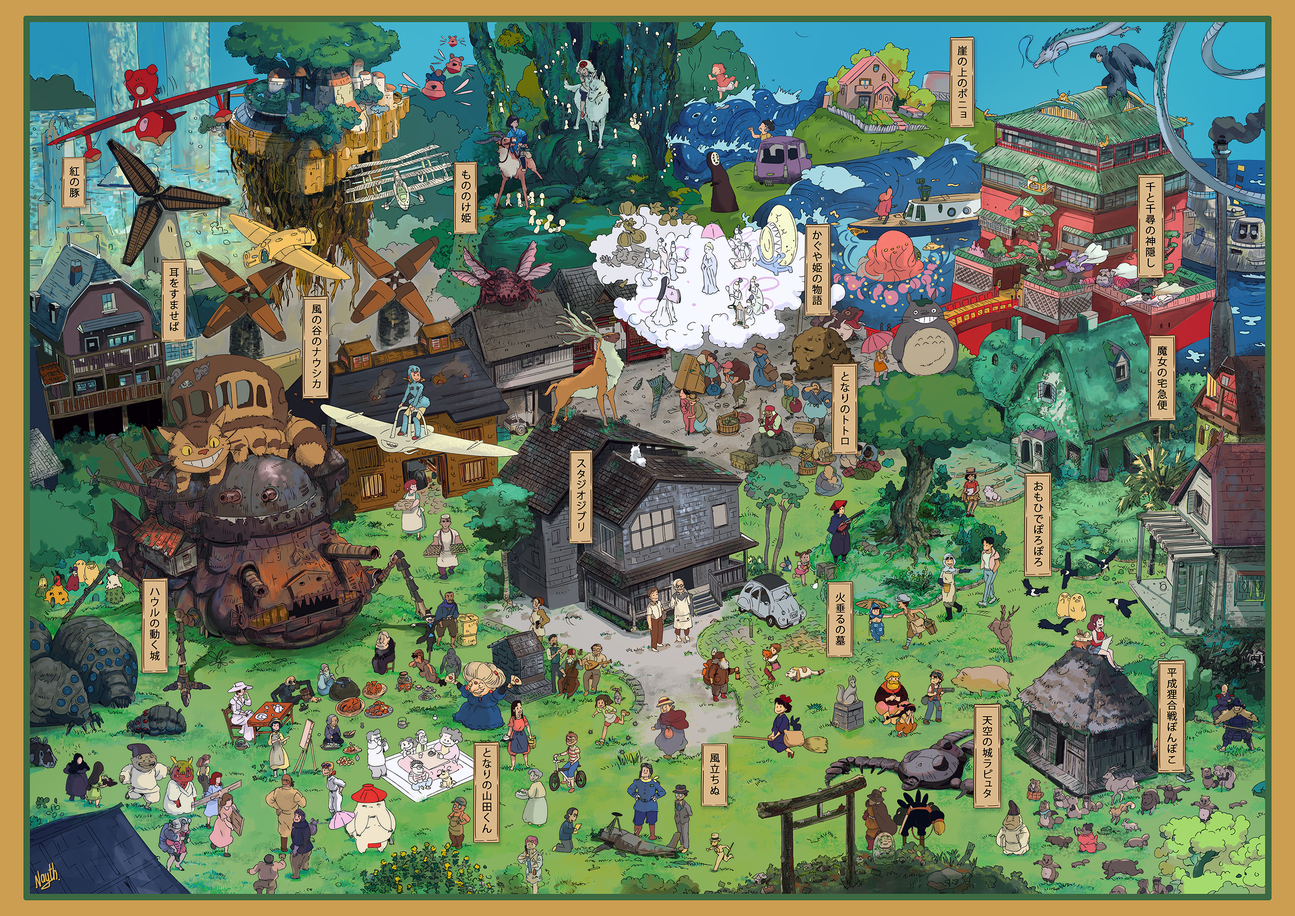
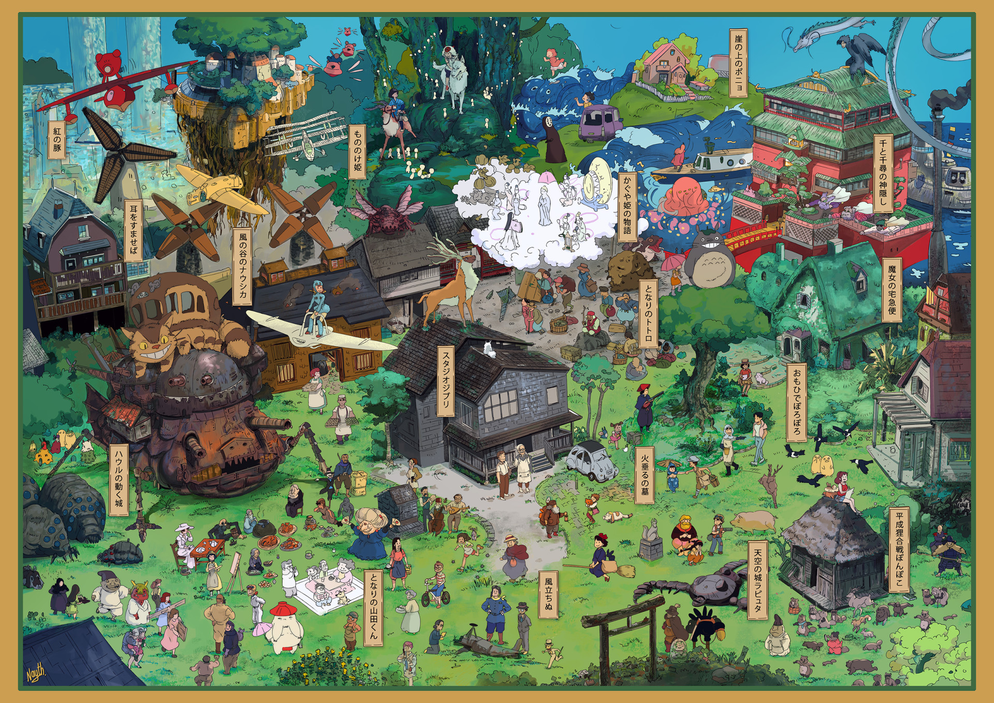
change images resolution and data level structure same

diff --git a/src/components/GameLevel.js b/src/components/GameLevel.js
@@ -34,7 +34,7 @@ const GameLevel = ({
   const [numberOfRightHits, setNumberOfRightHits] = useState(0);
   const [showHitTarget, setShowHitTarget] = useState(false);
   const [questCount, setQuestCount] = useState(0);
-  const [questType, setQuestType] = useState();
+
   const [maxQuestHit, setMaxQuestHit] = useState(0);
   const [questHits, setQuestHits] = useState([]);
   const [clickNumber, setClickNumber] = useState(1);
@@ -79,12 +79,9 @@ const GameLevel = ({
       }
     }
     if (levelData && levelData.quests[currentQuest]) {
-      setQuestType(levelData.quests[currentQuest].type);
-      if (levelData.quests[currentQuest].type === 2) {
-        setMaxQuestHit(
-          Object.keys(levelData.quests[currentQuest].positions).length
-        );
-      }
+      setMaxQuestHit(
+        Object.keys(levelData.quests[currentQuest].positions).length
+      );
     }
     const interval = setInterval(() => {
       setCurrentTime(
@@ -215,7 +212,6 @@ const GameLevel = ({
     xPositionOnImage,
     yPositionOnImage
   ) => {
-    setShowHitTarget(false);
     const prevIndicator = clickNumber === 1 ? [] : indicators;
     if (clickNumber === 1) {
       setIndicators([]);
@@ -307,22 +303,19 @@ const GameLevel = ({
     return (y / ch) * ih;
   };
   const handleImageClick = (e) => {
-    setShowHitTarget(true);
     const bounds = e.target.getBoundingClientRect();
-    const xPositionOnImage = computexPositionOnImage(e);
-    const yPositionOnImage = computeyPositionOnImage(e);
+    const xPositionOnImage = Math.floor(computexPositionOnImage(e));
+    const yPositionOnImage = Math.floor(computeyPositionOnImage(e));
 
     console.log([xPositionOnImage, yPositionOnImage]);
-    if (questType === 1) {
-      evaluateSingleTargetHit(xPositionOnImage, yPositionOnImage);
-    } else if (questType === 2) {
-      evaluateMultipleTargetHit(
-        e.clientX - bounds.left,
-        e.clientY - bounds.top,
-        xPositionOnImage,
-        yPositionOnImage
-      );
-    }
+
+    evaluateMultipleTargetHit(
+      e.clientX - bounds.left,
+      e.clientY - bounds.top,
+      xPositionOnImage,
+      yPositionOnImage
+    );
+
     evaluateEndOfGame();
   };
 
@@ -332,7 +325,6 @@ const GameLevel = ({
       onClick={(e) => {
         if (!(e.target.tagName === "IMG")) {
           setShouldDisplayMenu(false);
-          setShowHitTarget(false);
         }
       }}
     >
@@ -362,12 +354,12 @@ const GameLevel = ({
         </div>
       </div>
       <div className="game" onClick={handleImageClick}>
-        {showHitTarget && questType === 1 && (
+        {maxQuestHit === 1 && indicators.length > 0 && (
           <div
             style={{
               position: "absolute",
-              left: `${lastClickX}px`,
-              top: `${lastClickY}px`,
+              left: `${indicators[0].x}px`,
+              top: `${indicators[0].y}px`,
               width: "20px",
               height: "20px",
               backgroundColor: questResult
@@ -377,19 +369,21 @@ const GameLevel = ({
             }}
           ></div>
         )}
-        {indicators.map((indicator, index) => (
-          <div
-            key={index}
-            className="circular-indicator"
-            style={{
-              position: "absolute",
-              left: `${indicator.x}px`,
-              top: `${indicator.y}px`,
-            }}
-          >
-            {indicator.clickNumber}
-          </div>
-        ))}
+
+        {maxQuestHit > 1 &&
+          indicators.map((indicator, index) => (
+            <div
+              key={index}
+              className="circular-indicator"
+              style={{
+                position: "absolute",
+                left: `${indicator.x}px`,
+                top: `${indicator.y}px`,
+              }}
+            >
+              {indicator.clickNumber}
+            </div>
+          ))}
         <SelectionMenu
           x={menuX}
           y={menuY}

diff --git a/src/components/LevelsDisplay.js b/src/components/LevelsDisplay.js
@@ -4,17 +4,15 @@ import { collection, getFirestore, setDoc, doc } from "firebase/firestore";
 const level1Data = {
   quests: [
     {
-      type: 2,
       question: "Find duplicate Pokemon",
       positions: [
-        { top: { x: 463, y: 1487 }, bottom: { x: 579, y: 1716 } },
-        { top: { x: 1713, y: 247 }, bottom: { x: 1788, y: 333 } },
+        { top: { x: 352, y: 1138 }, bottom: { x: 446, y: 1320 } },
+        { top: { x: 1317, y: 190 }, bottom: { x: 1373, y: 255 } },
       ],
     },
     {
-      type: 1,
       question: "Find Evee",
-      position: { top: { x: 688, y: 690 }, bottom: { x: 773, y: 758 } },
+      positions: [{ top: { x: 530, y: 521 }, bottom: { x: 589, y: 580 } }],
     },
   ],
   name: "Pokemon Fair",
@@ -24,14 +22,12 @@ const level1Data = {
 const level2Data = {
   quests: [
     {
-      type: 1,
       question: "Find Miyazaki",
-      position: { top: { x: 1300, y: 1120 }, bottom: { x: 1330, y: 1230 } },
+      positions: [{ top: { x: 991, y: 859 }, bottom: { x: 1024, y: 949 } }],
     },
     {
-      type: 1,
       question: "Find Baron",
-      position: { top: { x: 1337, y: 1615 }, bottom: { x: 1415, y: 1671 } },
+      positions: [{ top: { x: 1048, y: 1234 }, bottom: { x: 1086, y: 1284 } }],
     },
   ],
   name: "Ghibli",
